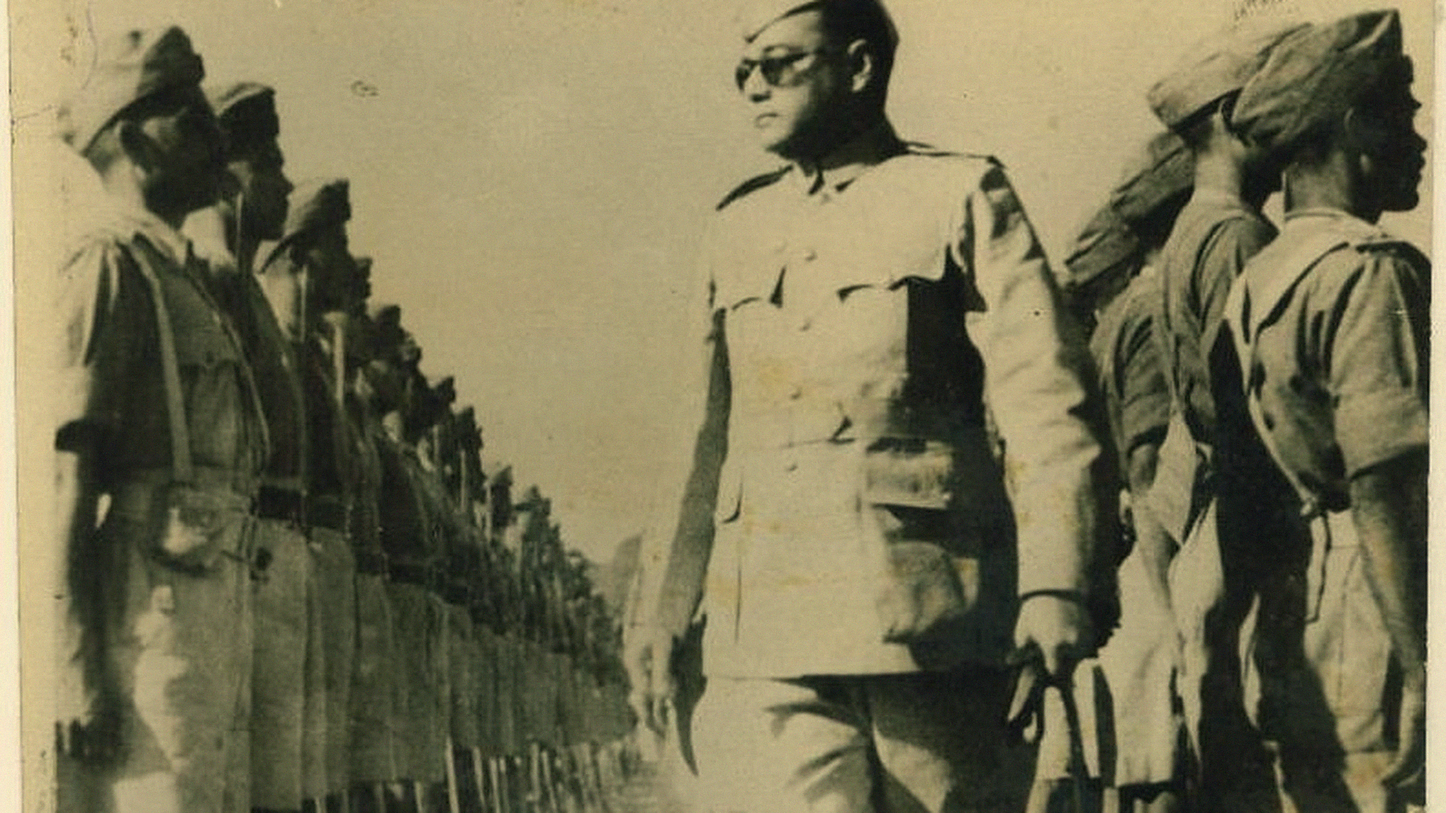
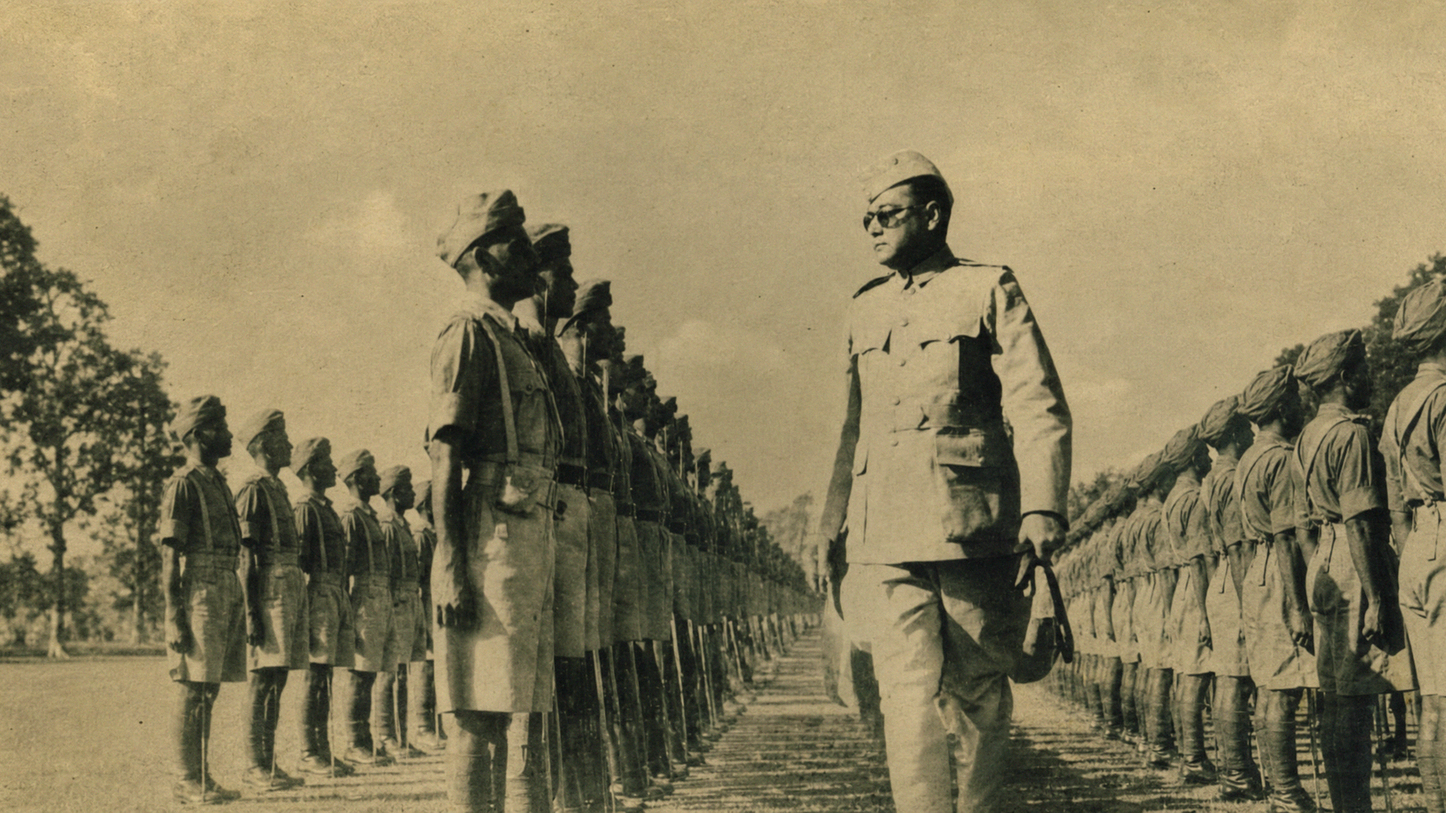
content: 1941 background re-rendered with GPT 2 — Bose likeness verified
User flagged Bose's face looking wrong (the previous bg was the real
photo Lanczos-upscaled 2.4x — too soft) and asked for a regeneration
with another model. Ran the archival photo through BOTH Nano Banana Pro
and GPT 2 at 21:9; face-compared against the original:
- Nano Banana leaned the face out and reshaped the jaw — REJECTED.
- GPT 2 matched Bose's actual features (full cheeks, jaw, sunglasses
  proportions) — installed, cropped subject right-of-center, warm grade.

Provenance register + Excel disclose it as a widescreen re-render from
the archival reference; the true photo remains in the 1941 gallery.

diff --git a/docs/IMAGE-PROVENANCE.md b/docs/IMAGE-PROVENANCE.md
@@ -72,7 +72,7 @@ rights and proof are inherited from the matching gallery row above.
 | `2-history-of-tiranga/1917/background/bg-1.png` | `1917/gallery/gallery-2.png` | Bal Gangadhar Tilak 1917 portrait; surroundings generatively extended to widescreen (Google Nano Banana Pro via Magnific, user-approved 2026-07-20) — the archival portrait itself is unchanged | Archival core: public domain (see gallery row); extended margins: commissioned gen-fill, no third-party rights |
 | `2-history-of-tiranga/1921/background/bg-1.png` | `1921/gallery/gallery-2.png` | Gandhi 1921 portrait; surroundings generatively extended to widescreen (Google Nano Banana Pro via Magnific, user-approved 2026-07-20) — the archival portrait itself is unchanged | Archival core: public domain (see gallery row); extended margins: commissioned gen-fill, no third-party rights |
 | `2-history-of-tiranga/1931/background/bg-1.png` | `1931/gallery/gallery-1.png` | Karachi Congress 1931 panorama with flag mast | Public domain (see gallery row) |
-| `2-history-of-tiranga/1941/background/bg-1.png` | `1941/gallery/gallery-2.png` | Subhas Chandra Bose reviewing INA troops | Public domain (see gallery row) |
+| `2-history-of-tiranga/1941/background/bg-1.png` | `1941/gallery/gallery-2.png` | Bose reviewing INA troops — scene re-rendered to widescreen by GPT 2 from the archival reference (user-approved 2026-07-20; Bose's likeness verified against the original, which the plain upscale had left too soft and a Nano Banana attempt distorted). The true archival photo is in the 1941 gallery. | Gen-render from a public-domain reference — no third-party rights |
 | `2-history-of-tiranga/1947/background/bg-1.png` | `1947/gallery/gallery-6.png` | Constituent Assembly, 14-15 August 1947 | Public domain (see gallery row) |
 ## Home
 
